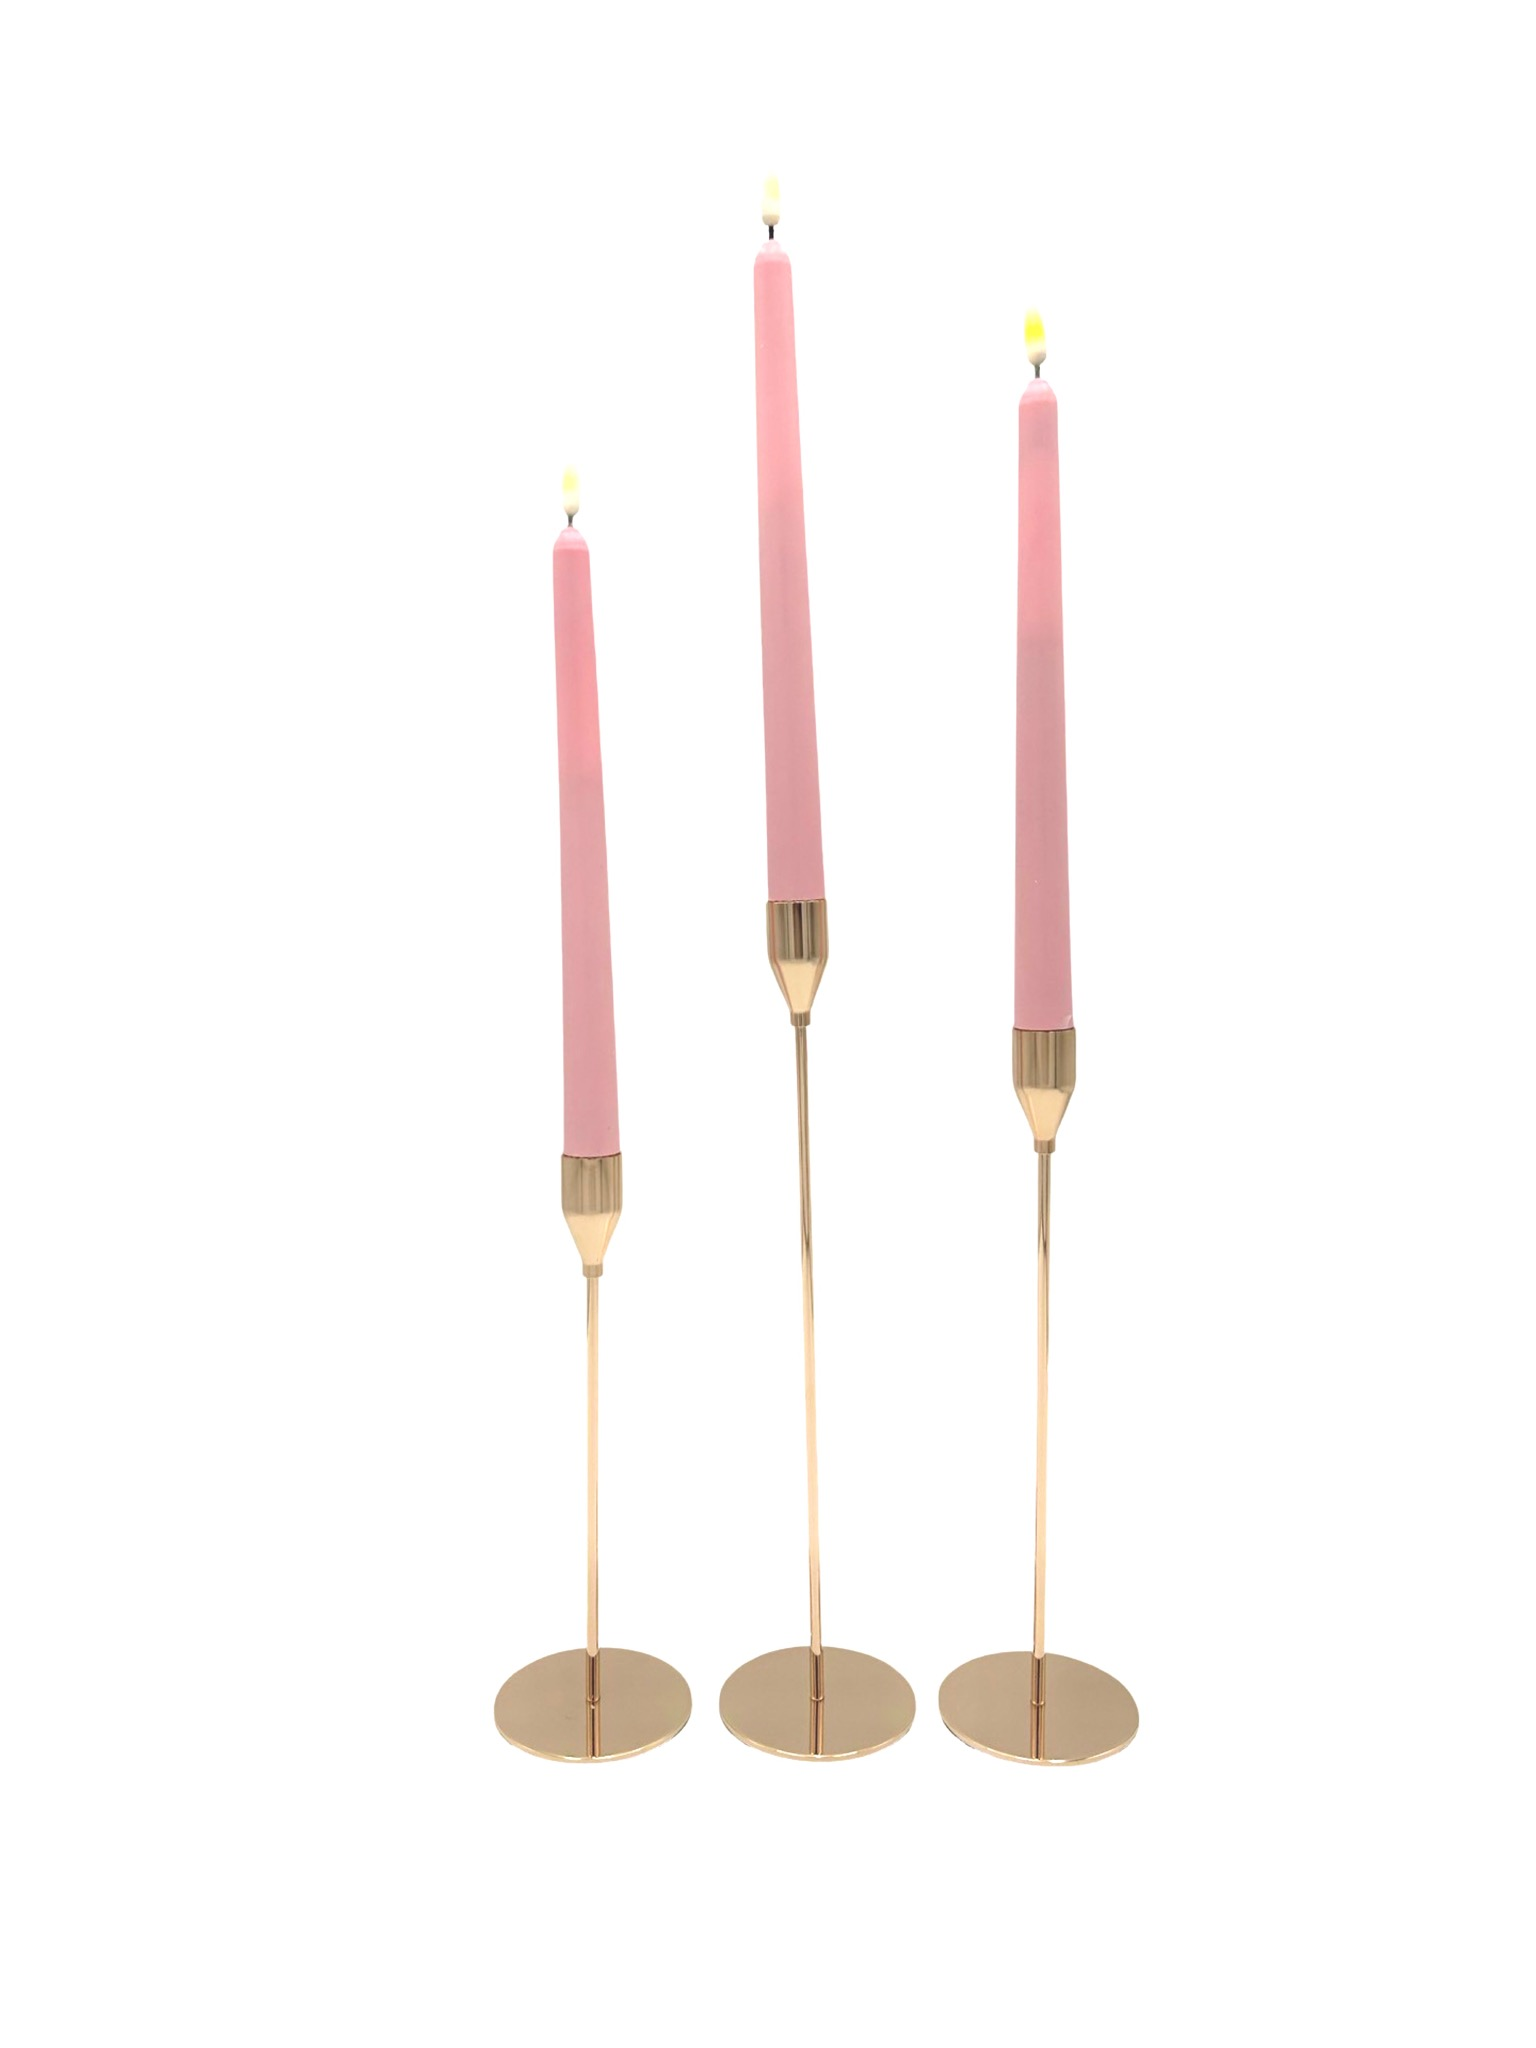
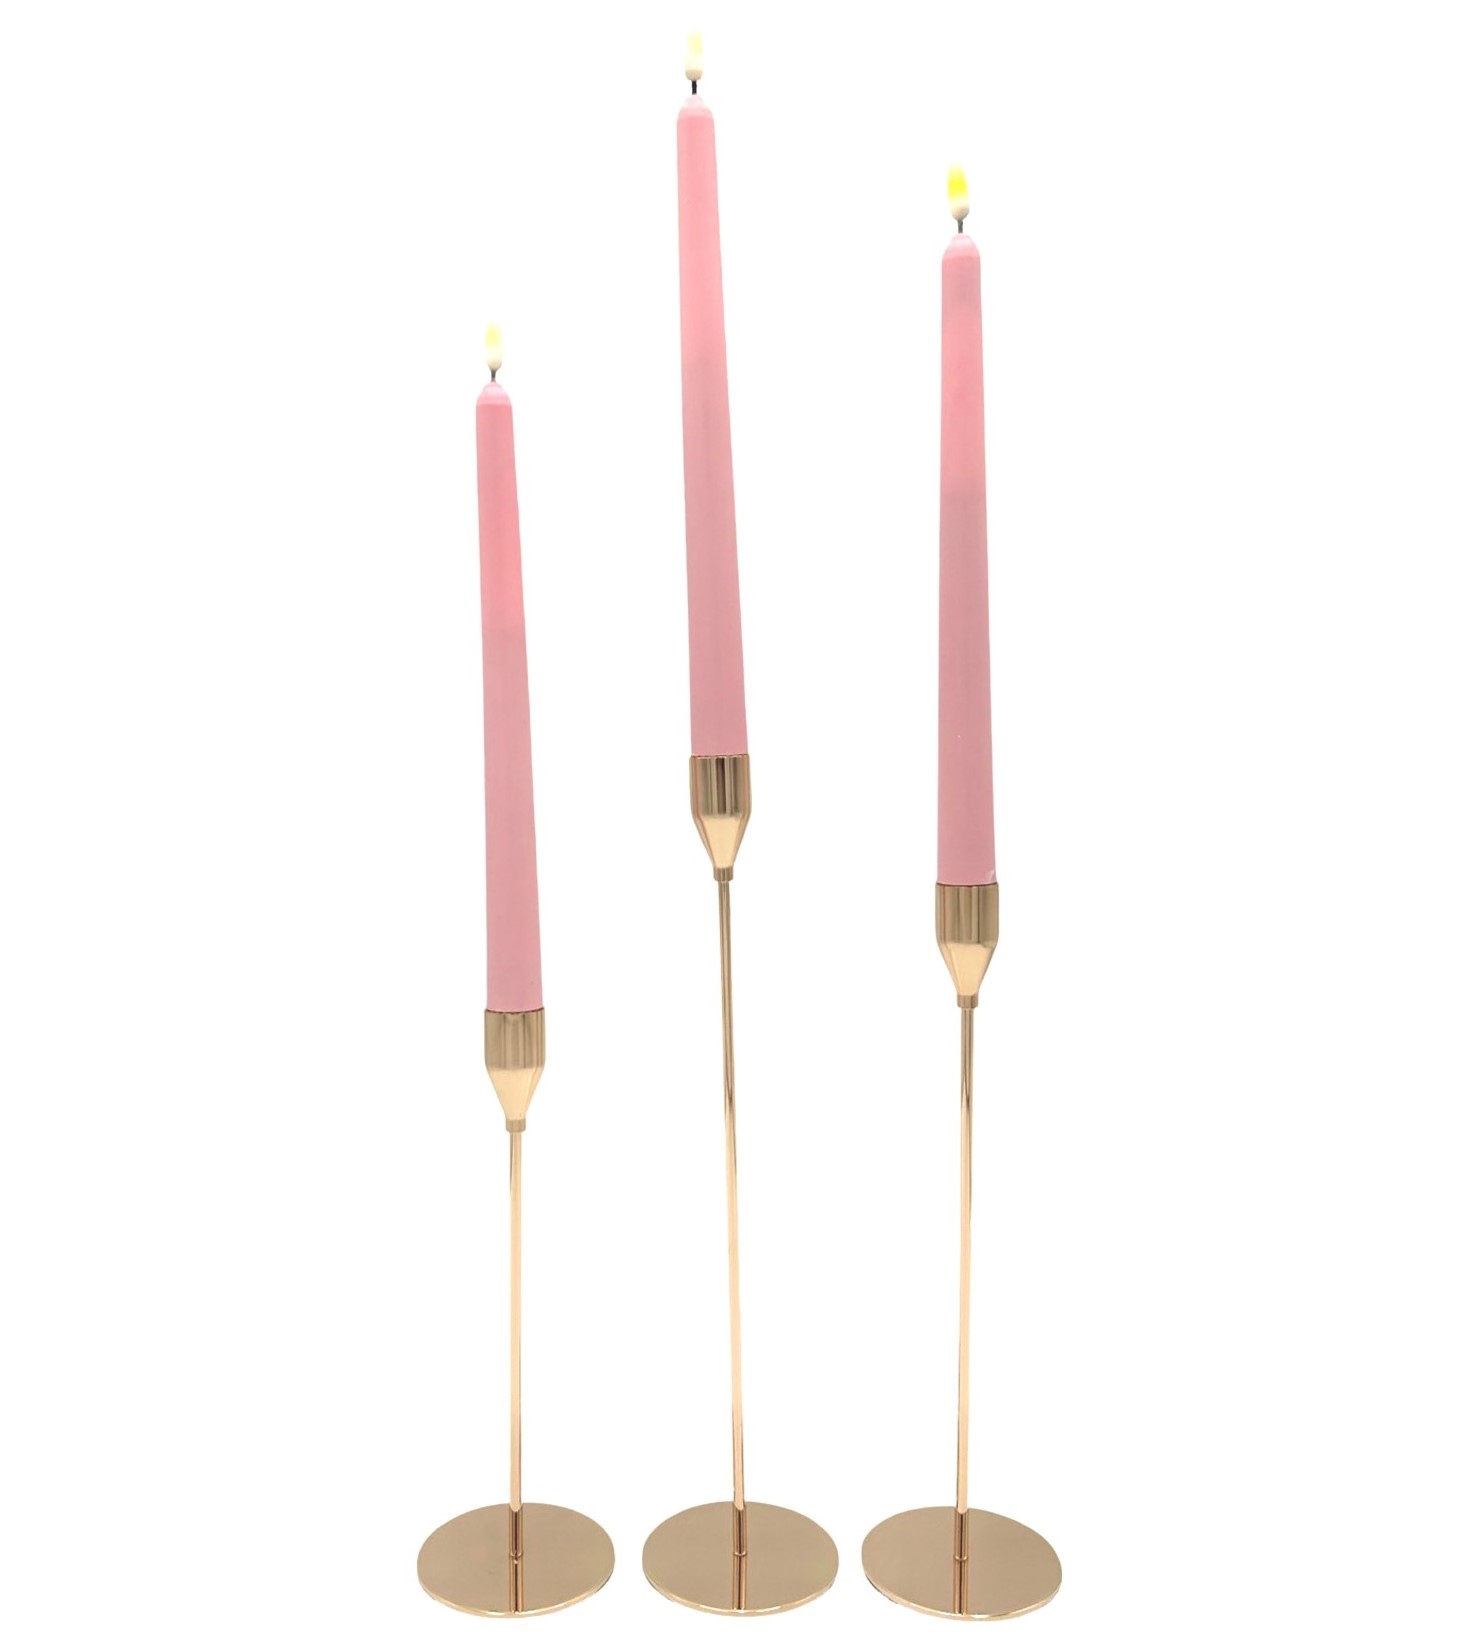
added lighting products

Changed region(s): [[0.2778, 0.0, 0.7407, 0.9945]]

diff --git a/src/App.js b/src/App.js
@@ -98,6 +98,13 @@ import servingPlater1 from "./assets/thumbnail_IMG_3414.jpg";
 import servingPlater2 from "./assets/thumbnail_IMG_3415.jpg";
 import servingPlater3 from "./assets/thumbnail_IMG_3417.jpg";
 
+import candle1 from "./assets/thumbnail_IMG_3508.jpg";
+import candle2 from "./assets/thumbnail_IMG_2597.jpg";
+import candle3 from "./assets/thumbnail_IMG_2595.jpg";
+import candle4 from "./assets/thumbnail_IMG_2591.jpg";
+import candle5 from "./assets/IMG_2615.jpg";
+import loveLight1 from "./assets/thumbnail_IMG_2589.jpg";
+
 function App() {
   return (
     <Router>
@@ -412,6 +419,26 @@ function App() {
             }
           />
           <Route path="/lighting" element={<Lighting />} />
+          <Route
+            path="/lighting/candles"
+            element={
+              <Product
+                name="Candles"
+                imgs={[candle1, candle5, candle3, candle4, candle2]}
+                description="These candles are perfect for creating an elegant and refined atmosphere. Available in a variety of colors, they can be paired with candle holders to complement your wedding theme."
+              />
+            }
+          />
+          <Route
+            path="/lighting/loveLight"
+            element={
+              <Product
+                name="Love Light"
+                imgs={[loveLight1]}
+                description="Elevate the romantic ambiance of your wedding with our Classic Marquee Love Sign. This sign features the word Love in bold, illuminated letters adorned with delicate lightbulbs. The warm glow adds a touch of magic to your decor. Whether placed at the entrance, behind the sweetheart table, or as a backdrop for photos, this sign invites guests to bask in the enchanting atmosphere of your event."
+              />
+            }
+          />
         </Routes>
         <Footer />
       </div>

diff --git a/src/pages/lighting/Lighting.js b/src/pages/lighting/Lighting.js
@@ -4,29 +4,18 @@ import "./lighting.css";
 function Lighting() {
   return (
     <div className="tablesPageWrap">
-      <Link className="noUnderline tableLink" to="/tables/farmHouse">
+      <Link className="noUnderline tableLink" to="/lighting/candles">
         <h3 className="productLink" id="lighting1">
-          <p>Floral <br></br>Backdrop</p>
+          <p>
+            Candles <br></br>
+          </p>
         </h3>
       </Link>
-      <Link className="noUnderline tableLink" to="/tables/farmHouse">
-        <h3 className="productLink" id="lighting1">
-        <p>Farm House <br></br> Table</p>
-        </h3>
-      </Link>
-      <Link className="noUnderline tableLink" to="/tables/farmHouse">
-        <h3 className="productLink" id="lighting1">
-        <p>Farm House <br></br> Table</p>
-        </h3>
-      </Link>
-      <Link className="noUnderline tableLink" to="/tables/farmHouse">
-        <h3 className="productLink" id="lighting1">
-        <p>Farm House <br></br> Table</p>
-        </h3>
-      </Link>
-      <Link className="noUnderline tableLink" to="/tables/farmHouse">
-        <h3 className="productLink" id="lighting1">
-        <p>Farm House <br></br> Table</p>
+      <Link className="noUnderline tableLink" to="/lighting/loveLight">
+        <h3 className="productLink" id="lighting2">
+          <p>
+            Love <br></br> Light
+          </p>
         </h3>
       </Link>
     </div>

diff --git a/src/pages/lighting/lighting.css b/src/pages/lighting/lighting.css
@@ -1,3 +1,6 @@
-#lighting1{
+#lighting1 {
+  background-image: url("../../assets/thumbnail_IMG_3508.jpg");
+}
+#lighting2 {
   background-image: url("../../assets/thumbnail_IMG_2589.jpg");
 }
